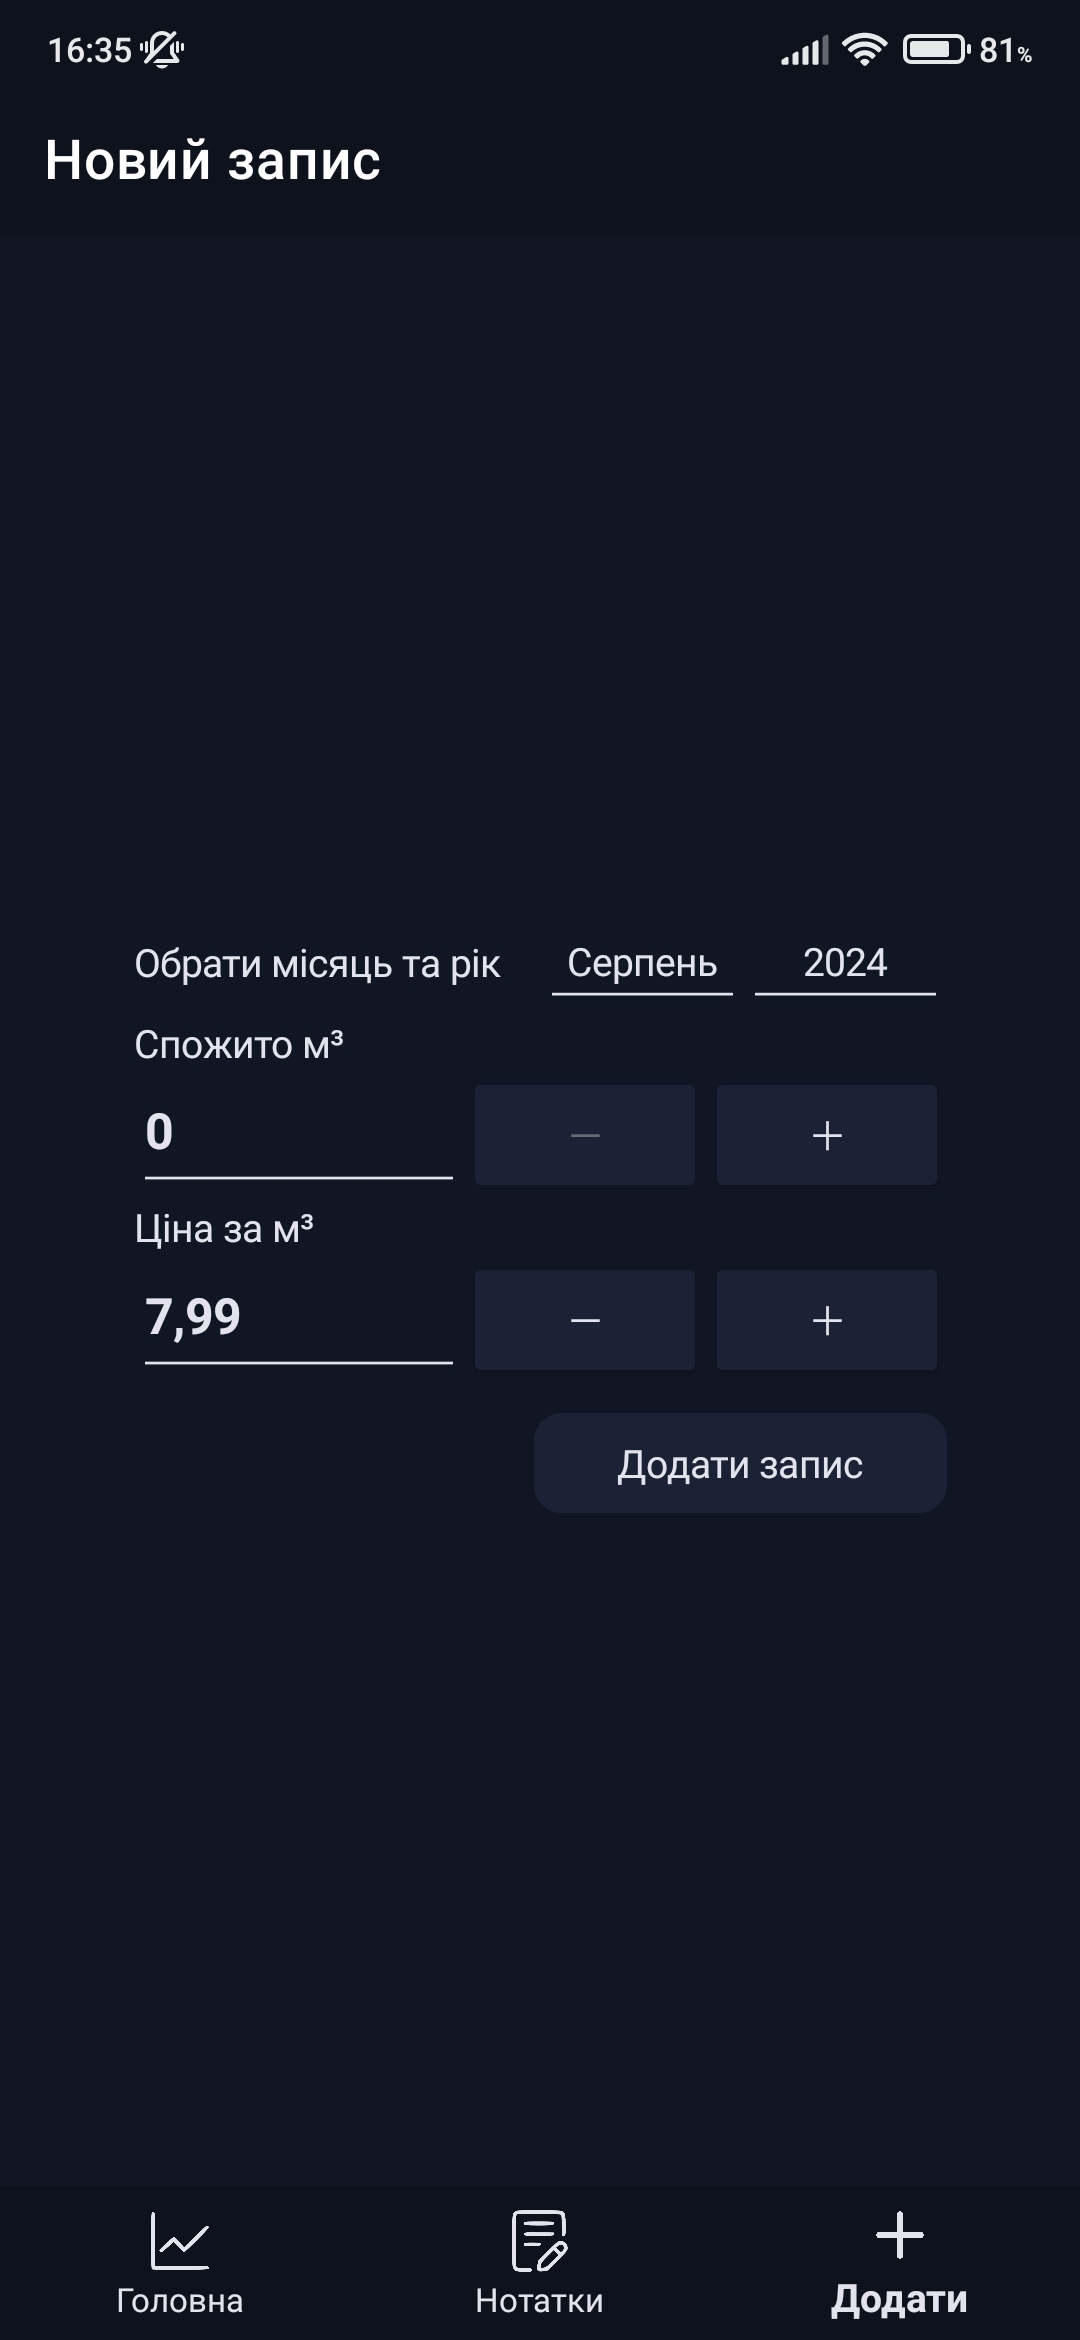
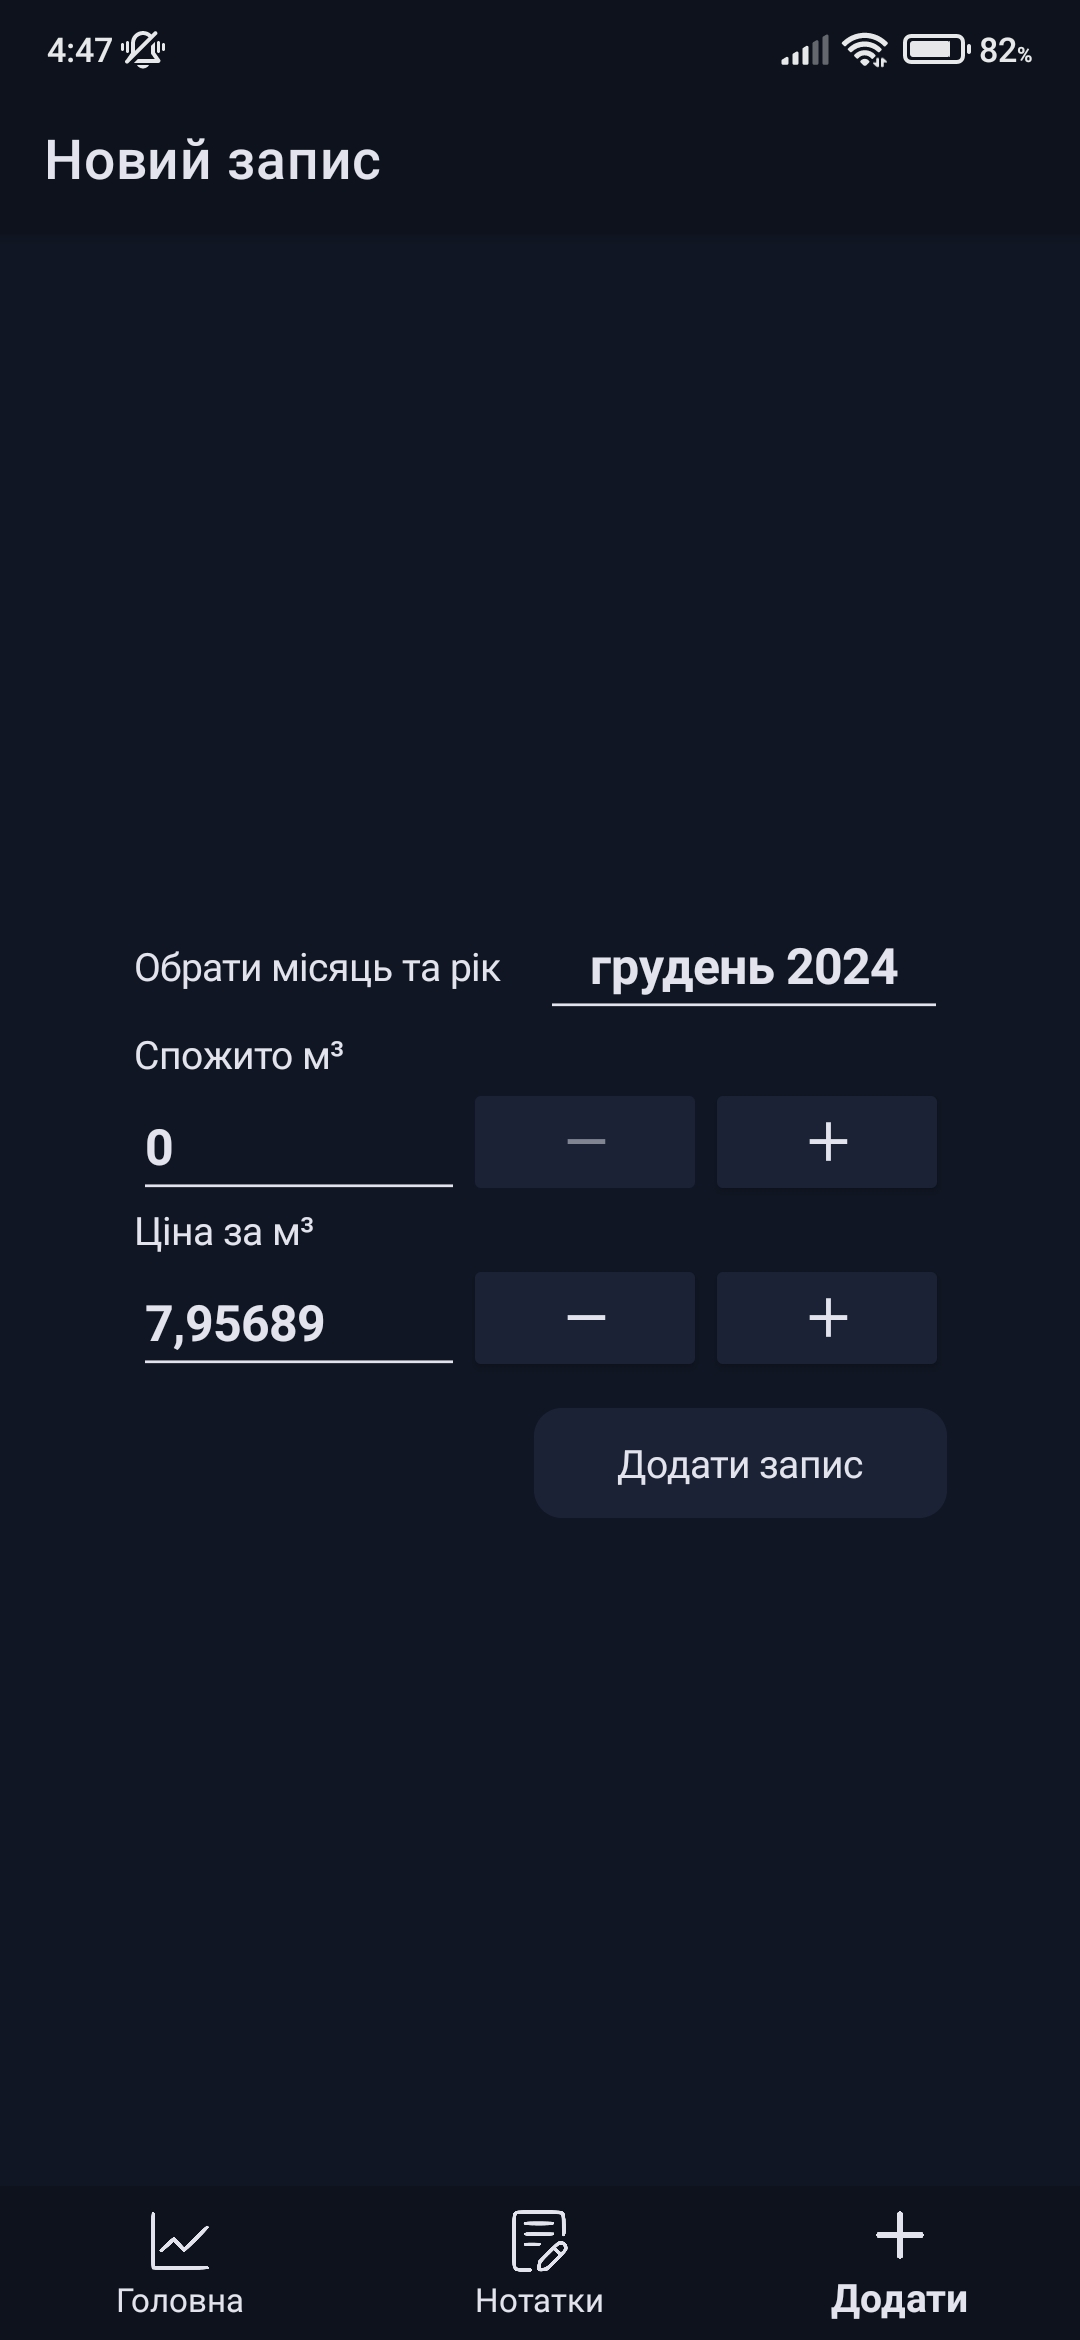
Update screenshots

diff --git a/README.md b/README.md
@@ -25,8 +25,7 @@
 
 ### Add
 <img  src="/Screenshots/add.jpg" width="300">
-<img  src="/Screenshots/add_month_picker.jpg" width="300">
-<img  src="/Screenshots/add_year_picker.jpg" width="300">
+<img  src="/Screenshots/date_picker.jpg" width="300">
 
 ### QrCode Page
 <img src="/Screenshots/qr_code_popup.jpg" width="300">
